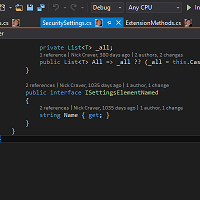
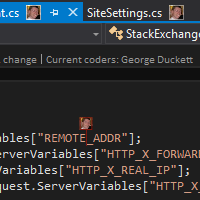
Update readme, manifest text, preview image to show latest changes

diff --git a/readme.md b/readme.md
@@ -1,13 +1,15 @@
 Team Coding
 --
 
-**About:** The Team Coding Visual Studio extension helps discover team members who are working in the same area of a solution as you. You can set your own username and user image url via settings (Tools->Options->Team Coding), or let it try and figure them out automatically (see below). Once working it will display user icons at the top of your tabs when other users have the same document open, with a white border when the tab is selected and a grey border when it's edited. It will also display text in CodeLens (disable in CodeLens settings) indicating whether someone is currently working on a class/member based on where their caret is.
+**About:** The Team Coding Visual Studio extension helps discover team members who are working in the same area of a Git repository as you. You can set your own username and user image url via settings (Tools->Options->Team Coding), or let it try and figure them out automatically (see below). Once working it will display user icons at the top of your tabs when other users have the same document open, with a white border when the tab is selected and a grey border when it's edited. It will also display text in CodeLens (disable in CodeLens settings) indicating whether someone is currently working on a class/member based on where their caret (text cursor) is as well as showing a coloured caret where they are working for C# and visual basic code.
+
+**Quickstart:** There are 2 ways Team Coding can be minimally configured. In the options menu (under Team Coding) where you can also set user settings and/or by opening a repository with a teamcoding.json file in it (shared settings will be taken from there).
 
 **Settings:** Also in the Team Coding settings page is configuration options for how to share open document information with others. Multiple methods can be used at once, you can also add a `teamcoding.json` file anywhere within the solution folder for it to override user settings. If this file is in place then for that solution settings don't need to be set in each developer's IDE.
 
 **User Identity:** It tries to get your email address as a user identity from various sources (saved Windows Credentials for GitHub, your logged in identity from visual studio, your machine name). This will be made public to your team. It uses Gravatar to get a user image from the email address.
 
-**Roadmap:** Still very much alpha, please report bugs as [GitHub issues](https://github.com/georgeduckett/TeamCoding/issues). Currently sharing options are a shared folder, and Redis. Will initially support Git repos for determining what to share. In the pipeline is support of other source control systems, as well as a shared-coding experience (multiple users editing the same document).
+**Roadmap:** Still very much alpha, please report bugs as [GitHub issues](https://github.com/georgeduckett/TeamCoding/issues). Currently sharing options are a shared folder, and Redis. If you want others (along with any other feature requests) please raise them as issues. Will initially support Git repos for determining what to share. In the pipeline is support of other source control systems, as well as a shared-coding experience (multiple users editing the same document).
 
 **Reporting Bugs**: When reporting bugs ([here](https://github.com/georgeduckett/TeamCoding/issues)) please include information from the `Team Coding` tab in the output window (if relevent). If there were any exceptions they should be visible there, which can help track down the cause.
 
